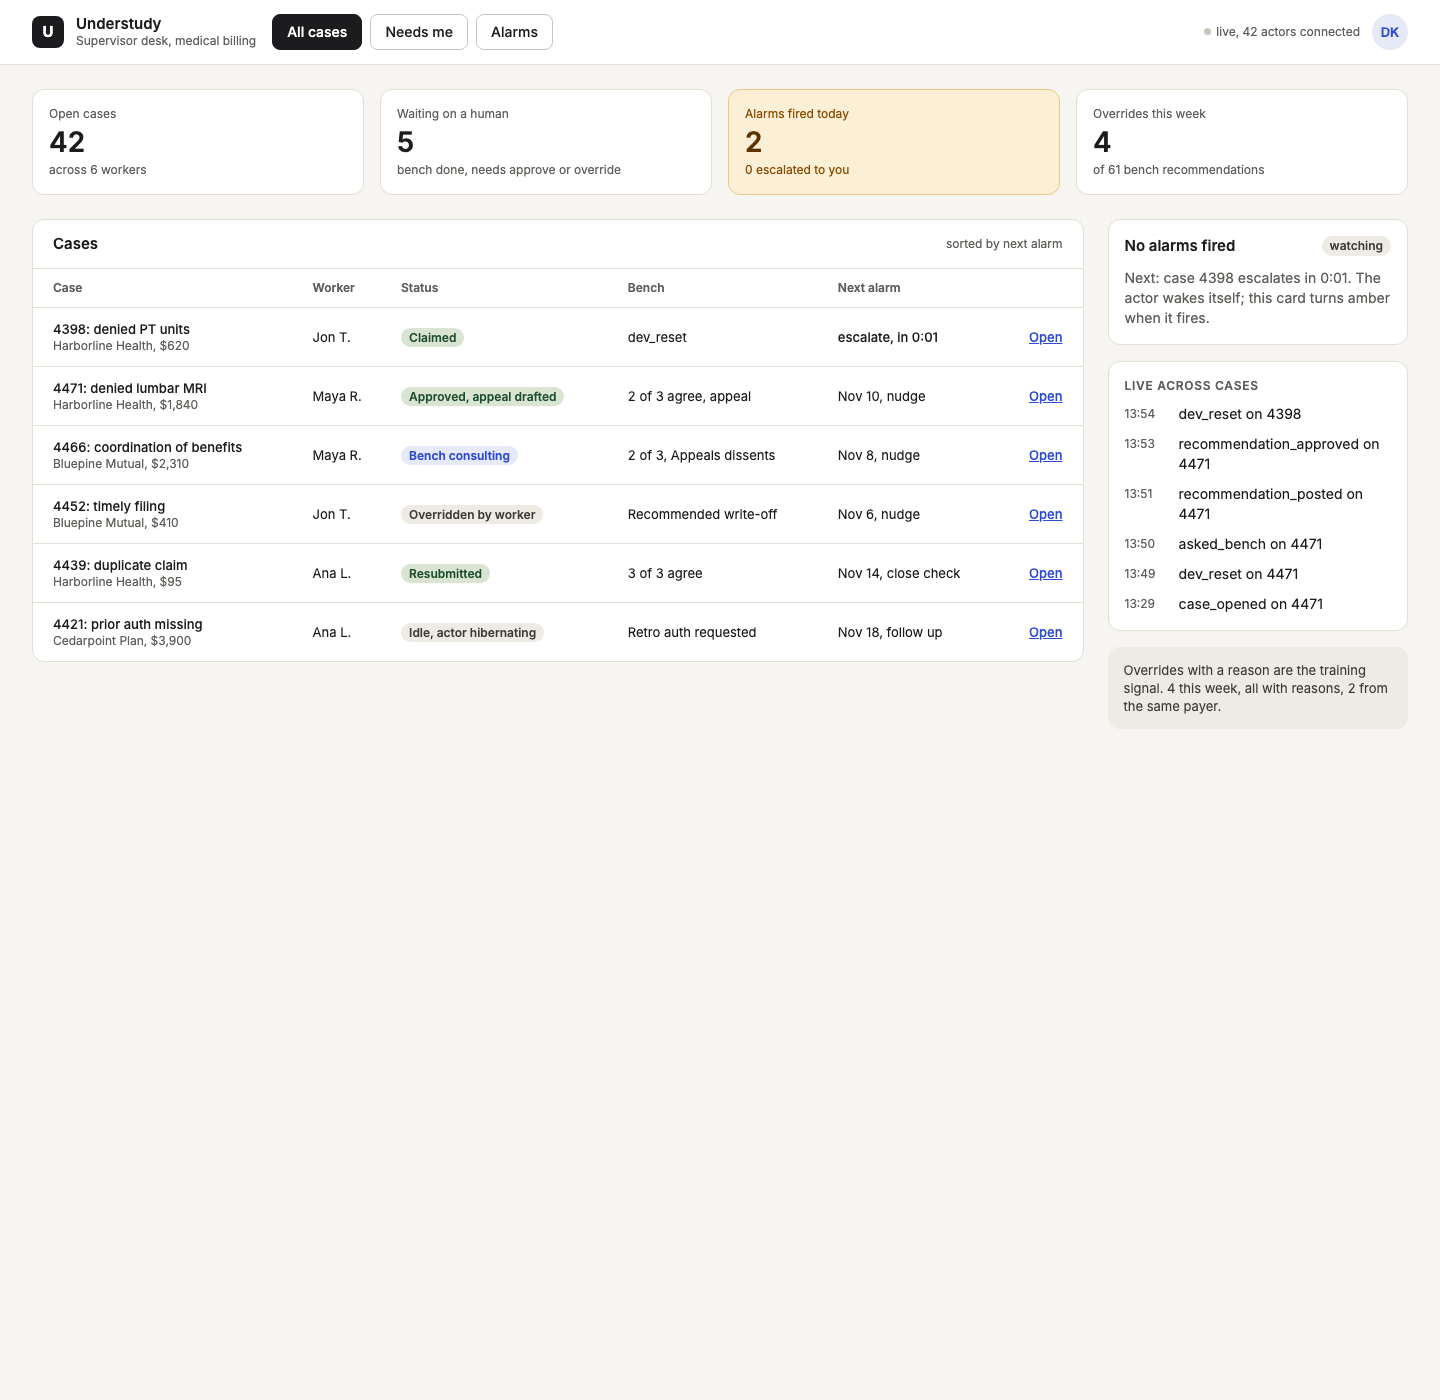
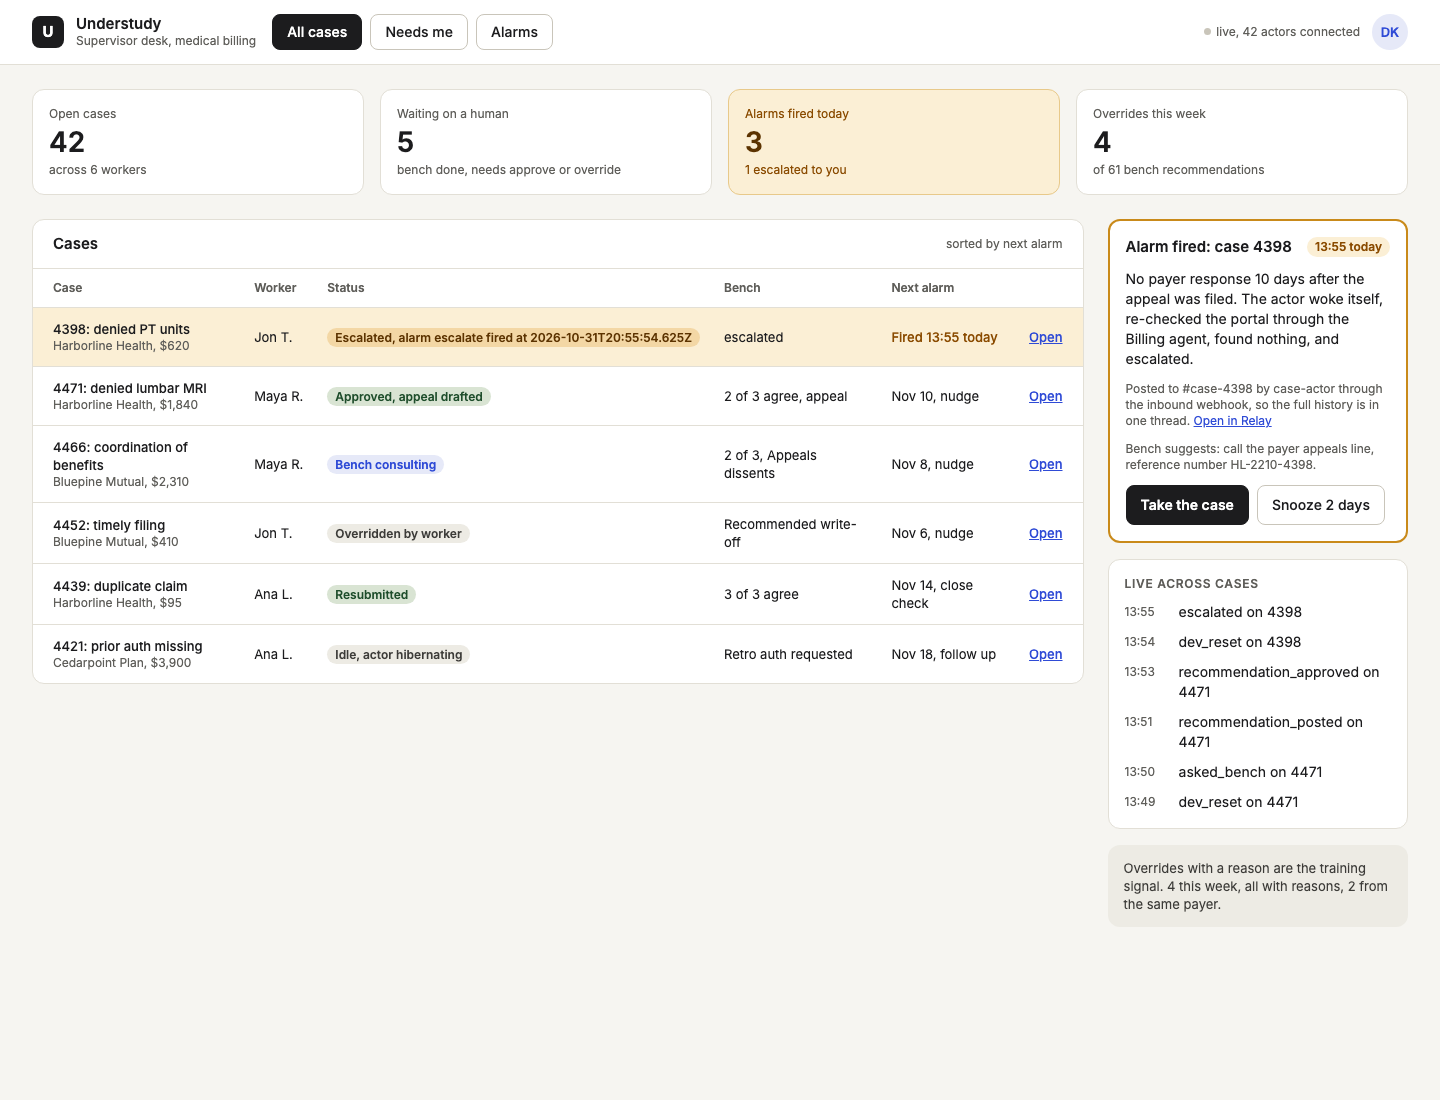
FLOWS.html walkthrough with live screenshots

diff --git a/FLOWS.html b/FLOWS.html
@@ -125,7 +125,7 @@ svg text{font-family:Inter,sans-serif}
 <li><b>Terse calls <code>onAlarm()</code></b> when the time passes, even if no client is connected.</li>
 <li><b>The actor escalates:</b> it marks the alarm fired, appends to the decision log and broadcasts <code>alarm_fired</code>.</li>
 <li><b>The bridge posts via webhook as <code>case-actor</code></b> into <code>#case-4398</code>, so the humans and the agents see the same history.</li>
-<li><b>The Supervisor screen reacts:</b> the case row turns amber, the "Alarms fired today" tile fills, and the alarm card changes from "No alarms fired, watching" to the escalation.</li>
+<li><b>The Supervisor screen reacts:</b> the case row turns amber, the "Alarms fired today" tile fills, and the alarm card changes from "Case 4398 escalated when its Terse alarm fired at 13:55; the row turned amber and the alarm card appeared.</li>
 </ol>
 <p>Case 4398 is the demo case, seeded with <code>--alarm-seconds 60</code>. The screenshot below was taken with its alarm one second from firing, so the card still says "watching" with a countdown.</p>
 <figure><img src="docs/screens/supervisor.png" alt="Supervisor view"><figcaption>/supervisor. Table of cases sorted by next alarm, live event feed across all cases, and the alarm card (right).</figcaption></figure>
